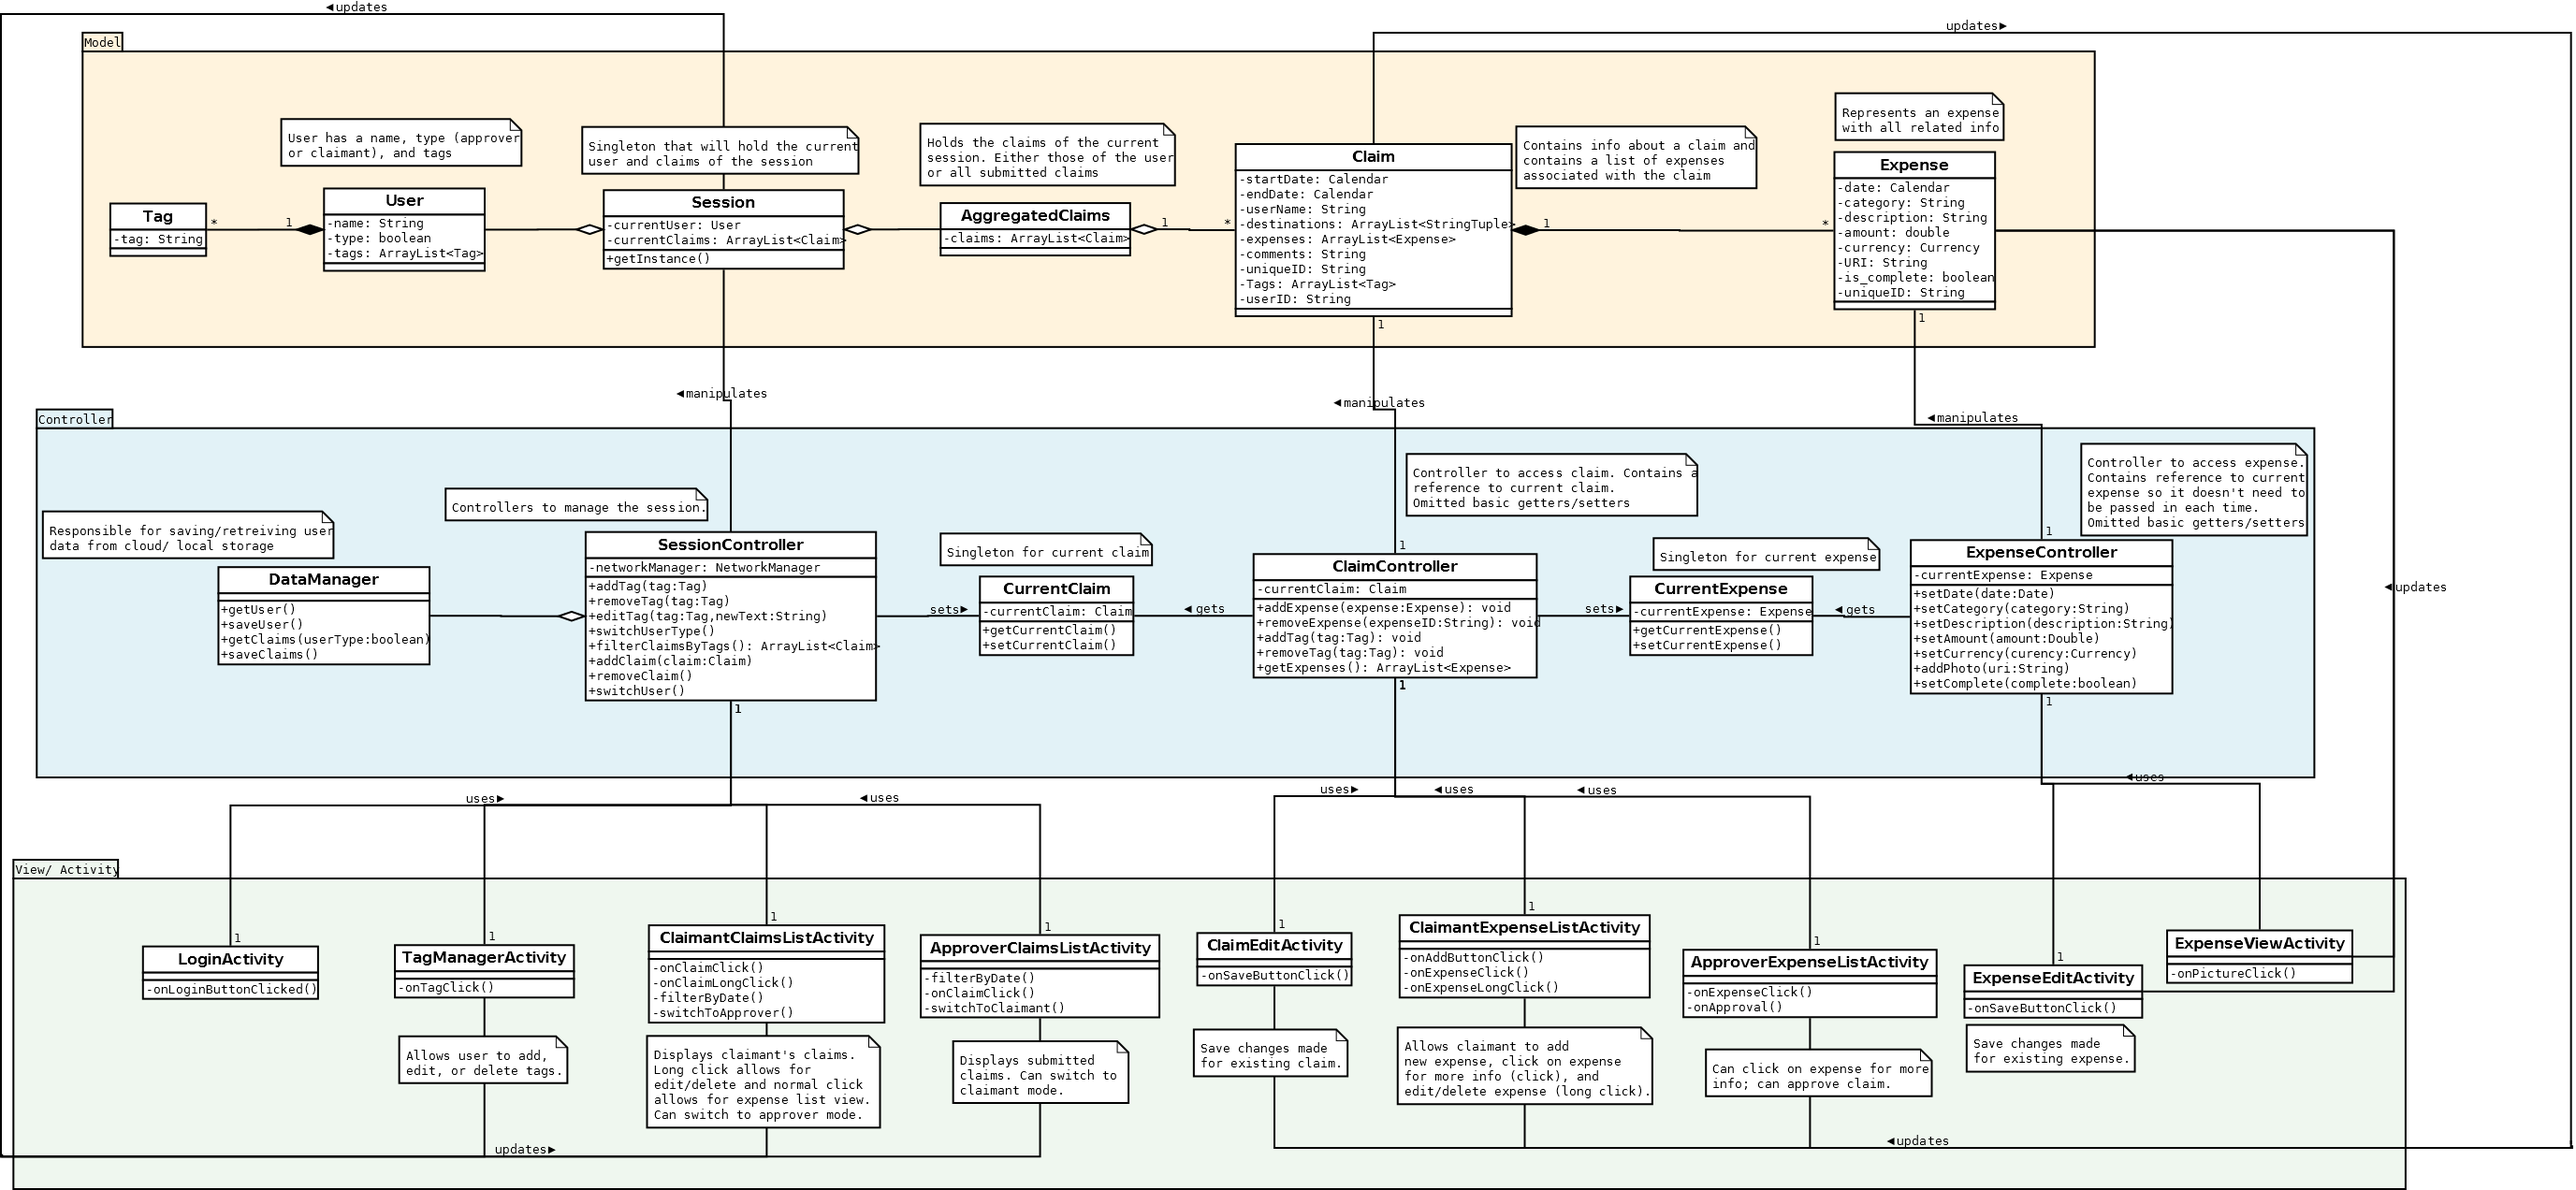
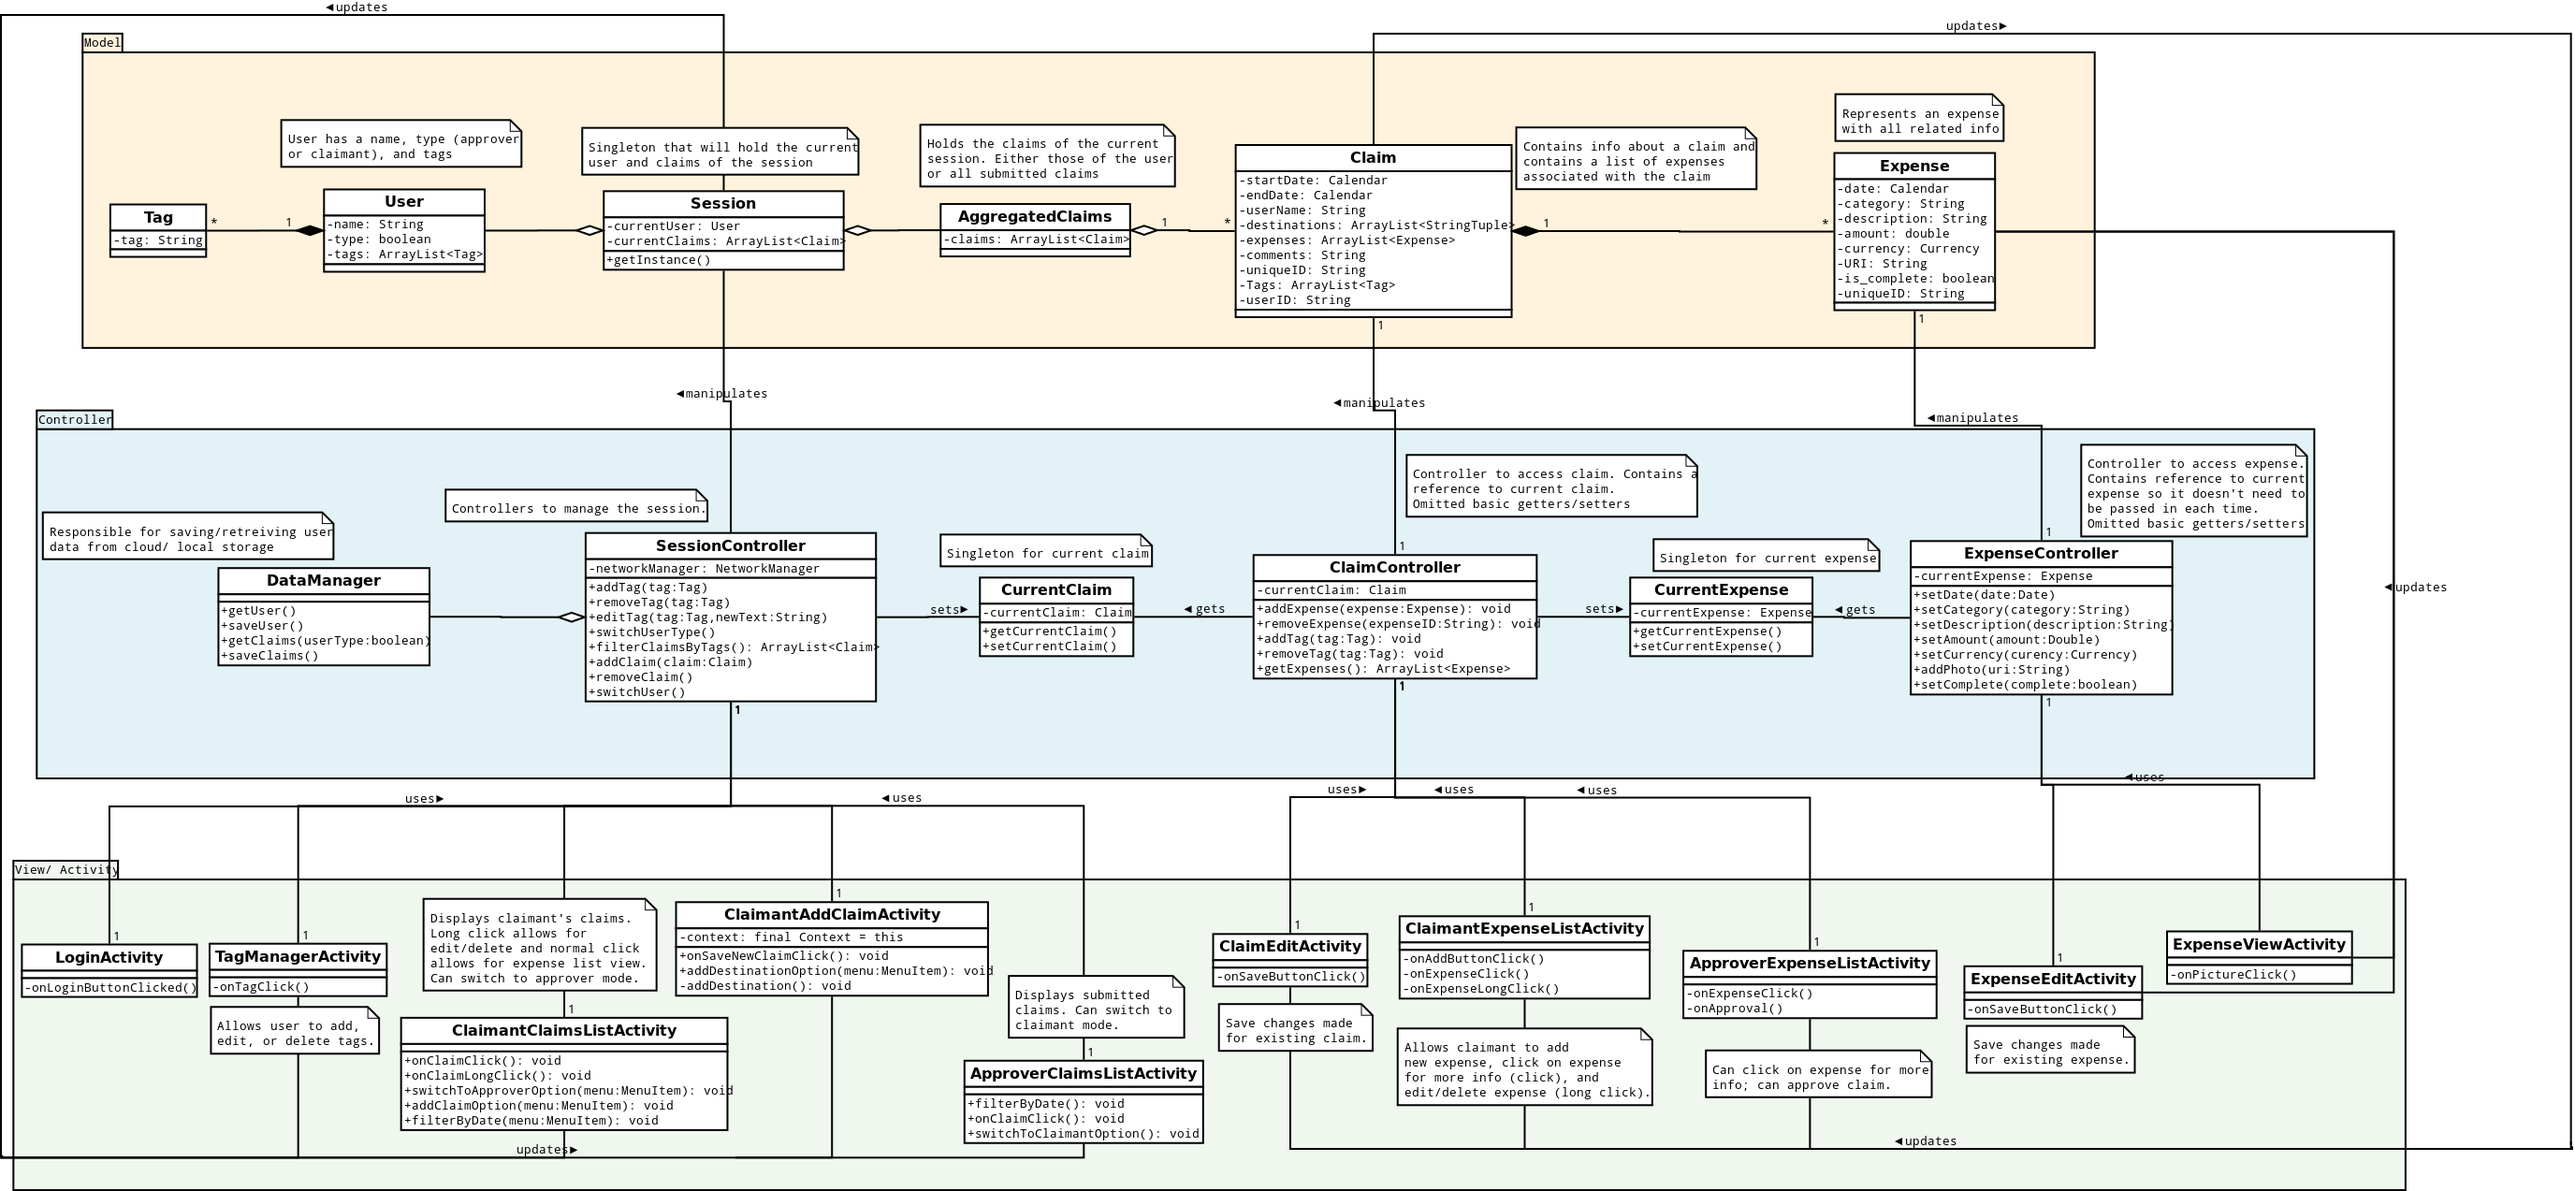
Updated UML, did some editing.

diff --git a/TeamToApp/src/com/CMPUT301W15T02/teamtoapp/ClaimantAddClaimActivity.java b/TeamToApp/src/com/CMPUT301W15T02/teamtoapp/ClaimantAddClaimActivity.java
@@ -12,7 +12,7 @@ import android.view.View;
 import android.widget.EditText;
 
 public class ClaimantAddClaimActivity extends Activity {
-	final Context context = this;
+	private final Context context = this;
 	@Override
 	protected void onCreate(Bundle savedInstanceState) {
 		super.onCreate(savedInstanceState);
@@ -21,13 +21,16 @@ public class ClaimantAddClaimActivity extends Activity {
 
 	@Override
 	public boolean onCreateOptionsMenu(Menu menu) {
-		// Inflate the menu; this adds items to the action bar if it is present.
 		getMenuInflater().inflate(R.menu.claimant_add_claim_menu, menu);
 		return true;
 	}
+	
+	public void onSaveNewClaimClick(MenuItem menu) {
+		// Perform actions once claimant saves new claim
+	}
 
 	public void addDestinationOption(MenuItem menu){
-		// pop up dialog to add another destination + reason.
+		// Pop up dialog to add another destination + reason.
 		addDestination();
 	}
 	
@@ -46,19 +49,16 @@ public class ClaimantAddClaimActivity extends Activity {
 			@Override
 			public void onClick(DialogInterface dialog, int id) {
 				// TODO Save destination + reason
-				
 			}
-			
 		})
 		
 		.setNegativeButton("Cancel", new DialogInterface.OnClickListener() {
 			@Override
 			public void onClick(DialogInterface dialog, int id) {
-				//Do nothing
+				// Do nothing
 			}
 		});
 		
-		// Show AlertDialog to user
 		AlertDialog alertDialog = builder.create();
 		alertDialog.show();
 	}

diff --git a/TeamToApp/src/com/CMPUT301W15T02/teamtoapp/ClaimantClaimsListActivity.java b/TeamToApp/src/com/CMPUT301W15T02/teamtoapp/ClaimantClaimsListActivity.java
@@ -17,18 +17,10 @@
 package com.CMPUT301W15T02.teamtoapp;
 
 import android.app.Activity;
-import android.app.AlertDialog;
-import android.app.Dialog;
-import android.app.AlertDialog.Builder;
-import android.content.Context;
-import android.content.DialogInterface;
 import android.content.Intent;
 import android.os.Bundle;
-import android.view.LayoutInflater;
 import android.view.Menu;
 import android.view.MenuItem;
-import android.view.View;
-import android.widget.EditText;
 
 public class ClaimantClaimsListActivity extends Activity {
 	@Override
@@ -59,7 +51,7 @@ public class ClaimantClaimsListActivity extends Activity {
 		startActivity(intent);
 	}
 
-	public void filterByClaimOption(MenuItem menu) {
+	public void filterByDate(MenuItem menu) {
 		
 	}
 	

diff --git a/TeamToApp/src/com/CMPUT301W15T02/teamtoapp/ApproverClaimsListActivity.java b/TeamToApp/src/com/CMPUT301W15T02/teamtoapp/ApproverClaimsListActivity.java
@@ -3,6 +3,7 @@ package com.CMPUT301W15T02.teamtoapp;
 import android.os.Bundle;
 import android.app.Activity;
 import android.view.Menu;
+import android.view.MenuItem;
 
 public class ApproverClaimsListActivity extends Activity {
 
@@ -19,4 +20,17 @@ public class ApproverClaimsListActivity extends Activity {
 		return true;
 	}
 
+	public void filterByDate(MenuItem menu) {
+		
+	}
+	
+	public void onClaimClick() {
+		
+	}
+	
+	public void switchToClaimantOption(MenuItem menu) {
+		// Not really sure if this is the correct way to do it.
+		// Changes by approver should be saved before going back.
+		super.onBackPressed();
+	}
 }
